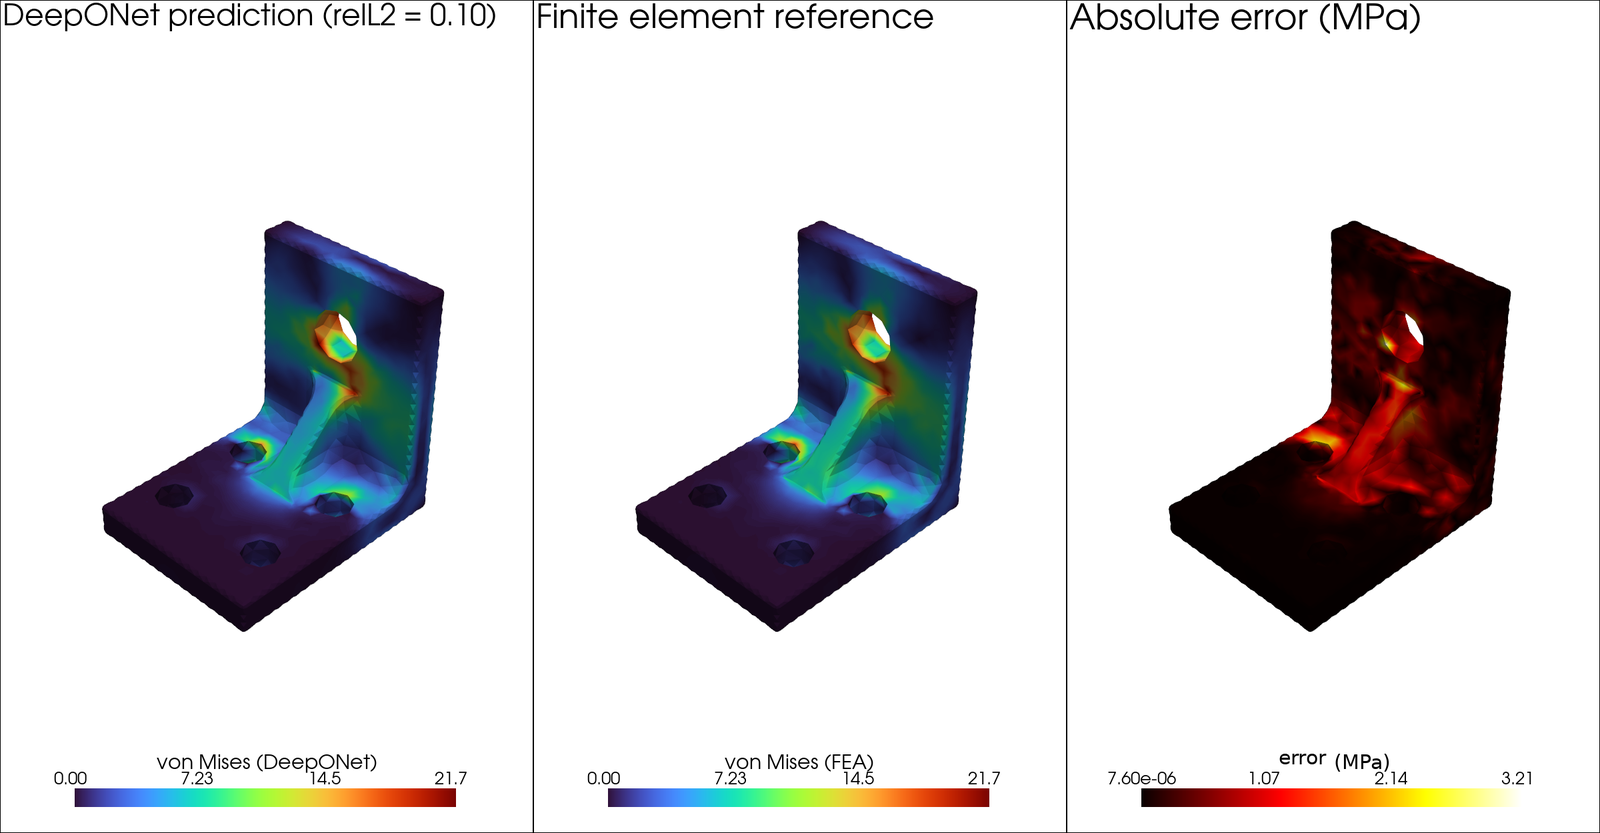
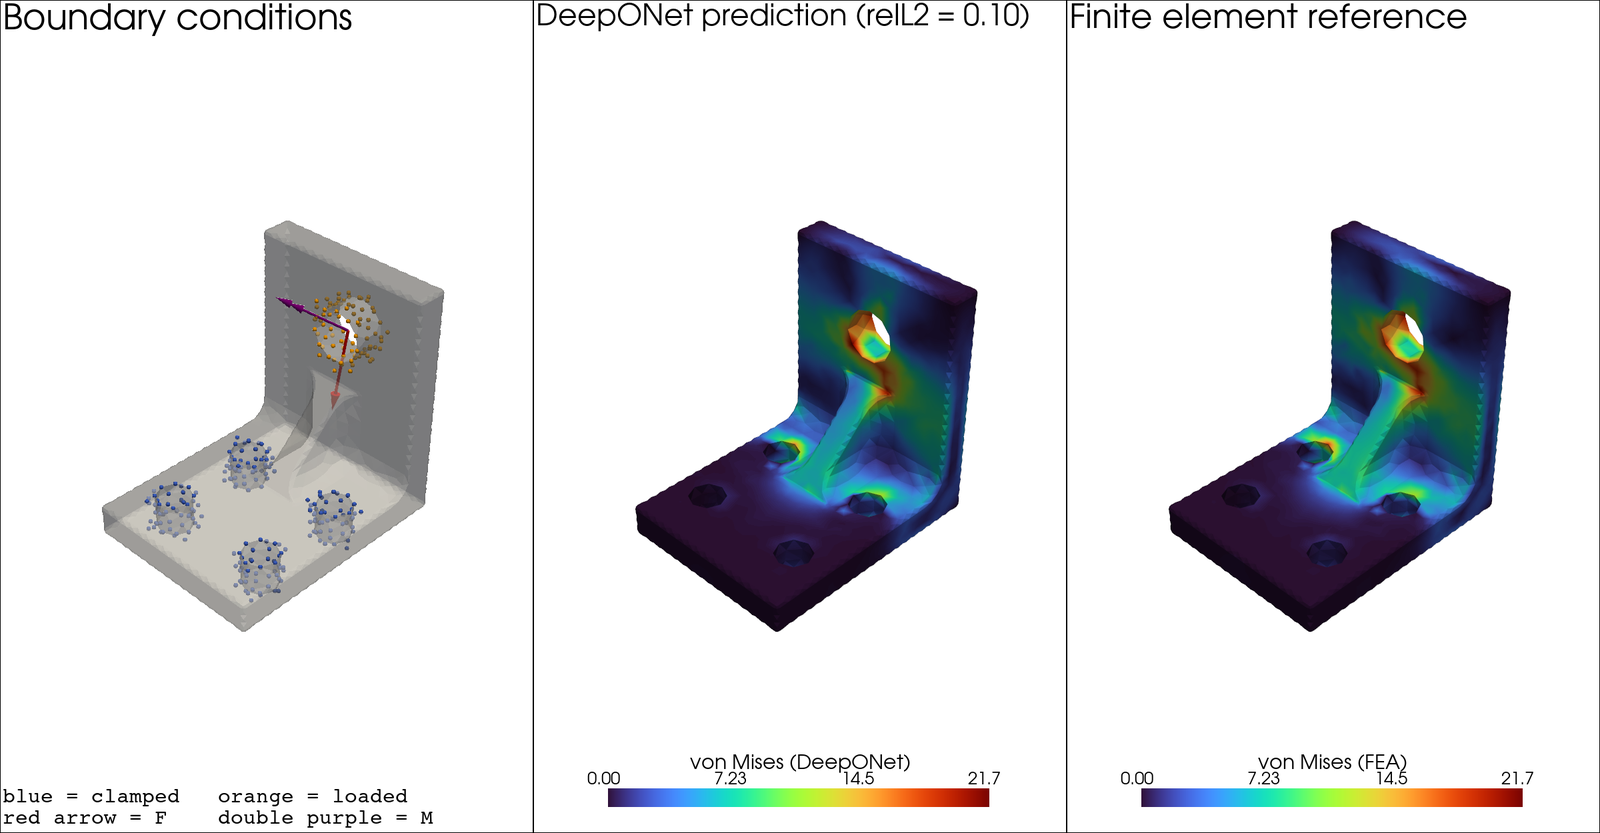
Show the boundary conditions in the fixed-geometry figure

diff --git a/README.md b/README.md
@@ -53,7 +53,7 @@ Per family:
 
 <p align="center">
   <img src="docs/images/prediction_fixed.png" width="95%" alt="Prediction with the geometry fixed">
-  <br><em>Geometry fixed, ribbed family (G): a validation case of median error (relative L² 0.10). Prediction, finite element reference and absolute error.</em>
+  <br><em>Geometry fixed, ribbed family (G): a validation case of median error (relative L² 0.10): boundary conditions, prediction and finite element reference.</em>
 </p>
 
 <p align="center">
